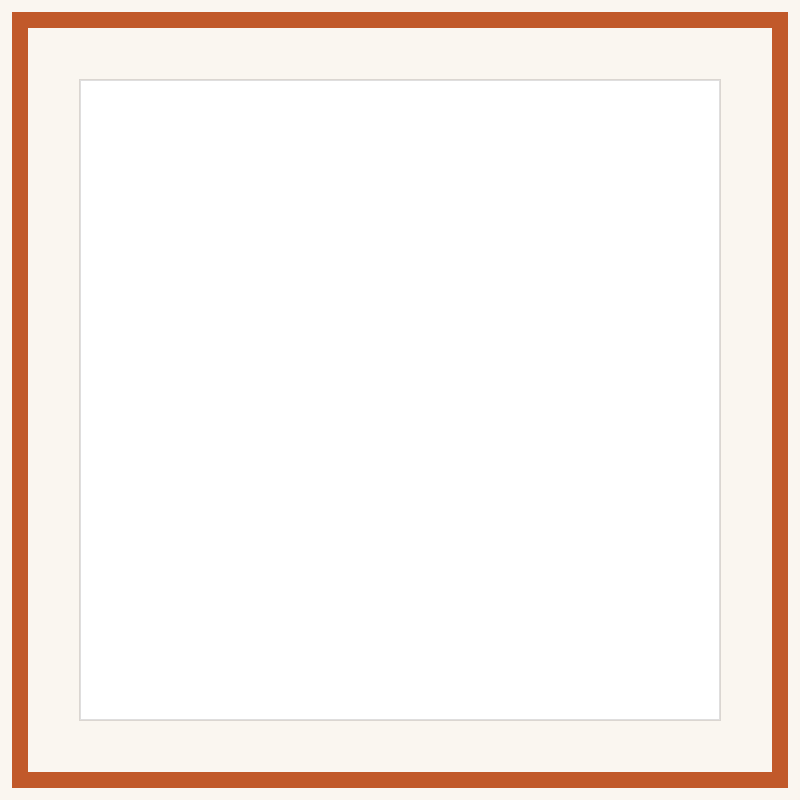
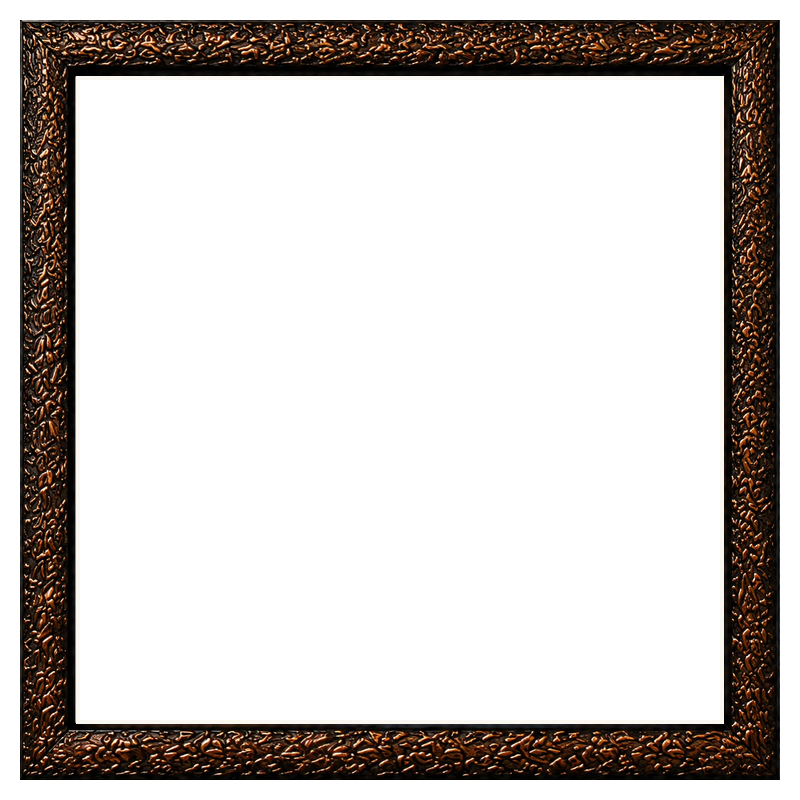
feat(preview): use the supplied bronze frame for every product preview
- Adds the frame as a transparent PNG (public/frames/mock-frame.png).
- Regenerates every product's mockup around it (corners kept, sides stretched
  to each product's shape); the photo openings are unchanged, so existing
  templates and crops still line up.
- The collage "In a room" view draws the same frame instead of a coloured
  moulding.

Changed region(s): [[0.0, 0.0, 1.0, 1.0]]

diff --git a/scripts/seed/src/generate-mockups.ts b/scripts/seed/src/generate-mockups.ts
@@ -1,6 +1,6 @@
 // scripts/seed/src/generate-mockups.ts
 import sharp from 'sharp';
-import { mkdirSync } from 'node:fs';
+import { mkdirSync, readFileSync } from 'node:fs';
 import { join, dirname } from 'node:path';
 import { fileURLToPath } from 'node:url';
 import { seedProducts, seedVariants, computePrintableRects } from './data';
@@ -9,15 +9,50 @@ import type { FrameTemplate } from '@bro-pics/shared';
 const __dirname = dirname(fileURLToPath(import.meta.url));
 const OUTPUT_DIR = join(__dirname, '..', '..', '..', 'apps', 'web', 'public', 'placeholders', 'mockups');
 const MOCKUP_SIZE = 800;
+const FRAME_PATH = join(__dirname, '..', '..', '..', 'apps', 'web', 'public', 'frames', 'mock-frame.png');
+/** Moulding width in the frame artwork (pixels, even on all four sides). */
+const FRAME_MOULDING_SRC_PX = 100;
+/** Moulding width on the 800 px mockup, and the cream mat between it and the photo openings (fractions of the mockup). */
+const MOULDING = 0.07;
+const MAT = 0.005;
 
 /**
- * Generates one flat placeholder mockup PNG per product: a plain frame
- * outline (terracotta border on cream background) with the printable
- * area(s) punched out as REAL alpha transparency, sized 800x800. Not
- * photoreal — just enough to prove the upload/position/DPI/preview
- * pipeline composites correctly. Real photography-team mockups replace
- * these files later without any code change (only the seed data's
- * mockupUrl values need updating).
+ * Draws the shop's one frame (public/frames/mock-frame.png) around a box:
+ * the four corners keep their mitres, the four sides are stretched to fit, so
+ * the same frame suits any product shape without distortion at the corners.
+ */
+async function frameAround(box: { x: number; y: number; width: number; height: number }): Promise<sharp.OverlayOptions[]> {
+  const art = sharp(readFileSync(FRAME_PATH));
+  const { width: sw, height: sh } = await art.metadata().then((m) => ({ width: m.width!, height: m.height! }));
+  const c = FRAME_MOULDING_SRC_PX;
+  const m = Math.round(MOULDING * MOCKUP_SIZE);
+  const ox = Math.round(box.x * MOCKUP_SIZE);
+  const oy = Math.round(box.y * MOCKUP_SIZE);
+  const ow = Math.round(box.width * MOCKUP_SIZE);
+  const oh = Math.round(box.height * MOCKUP_SIZE);
+  const piece = async (left: number, top: number, w: number, h: number, tw: number, th: number, x: number, y: number) => ({
+    input: await sharp(readFileSync(FRAME_PATH)).extract({ left, top, width: w, height: h }).resize(tw, th, { fit: 'fill' }).png().toBuffer(),
+    left: x,
+    top: y,
+  });
+  return Promise.all([
+    piece(0, 0, c, c, m, m, ox, oy),
+    piece(sw - c, 0, c, c, m, m, ox + ow - m, oy),
+    piece(0, sh - c, c, c, m, m, ox, oy + oh - m),
+    piece(sw - c, sh - c, c, c, m, m, ox + ow - m, oy + oh - m),
+    piece(c, 0, sw - 2 * c, c, ow - 2 * m, m, ox + m, oy),
+    piece(c, sh - c, sw - 2 * c, c, ow - 2 * m, m, ox + m, oy + oh - m),
+    piece(0, c, c, sh - 2 * c, m, oh - 2 * m, ox, oy + m),
+    piece(sw - c, c, c, sh - 2 * c, m, oh - 2 * m, ox + ow - m, oy + m),
+  ]);
+}
+
+/**
+ * Generates one mockup PNG per product: the shop's frame around the product's
+ * printable area(s), with a cream mat behind it and the printable area(s)
+ * punched out as REAL alpha transparency, sized 800x800. Every product uses
+ * the same frame art, so the editor, the room previews and the print file
+ * all show one consistent frame.
  *
  * Critically, the punched-out area(s) come from `computePrintableRects` —
  * the exact same function `seedFrameTemplates` uses to compute
@@ -29,11 +64,6 @@ async function generateMockups(): Promise<void> {
   mkdirSync(OUTPUT_DIR, { recursive: true });
 
   for (const product of seedProducts) {
-    if (product.slug === 'classic-wooden-frame') {
-      console.log(`Skipping placeholder mockup generation for ${product.slug} (using photorealistic asset)`);
-      continue;
-    }
-
     const variants = seedVariants.filter((v) => v.productId === product.id && v.isActive);
     if (variants.length === 0) {
       throw new Error(`Product ${product.slug} has no active variants — cannot generate a mockup for it.`);
@@ -69,21 +99,13 @@ async function generateMockups(): Promise<void> {
       })
       .join('\n            ');
 
-    const slotOutlines = rects
-      .map((r) => {
-        const x = r.x * MOCKUP_SIZE;
-        const y = r.y * MOCKUP_SIZE;
-        const w = r.width * MOCKUP_SIZE;
-        const h = r.height * MOCKUP_SIZE;
-        return `<rect x="${x}" y="${y}" width="${w}" height="${h}" fill="none" stroke="#2A2622" stroke-opacity="0.15" stroke-width="2"/>`;
-      })
-      .join('\n            ');
-
-    // The background rect is masked (white = opaque, black = the punched
-    // hole) so every printable-rect area ends up with real alpha 0 —
-    // the customer's uploaded photo, composited underneath in the editor,
-    // shows through. The border rect is drawn separately, unmasked, so the
-    // frame's outer edge stays fully opaque regardless of hole placement.
+    // The mat covers the whole frame opening except where the photos show through.
+    const left = Math.min(...rects.map((r) => r.x));
+    const top = Math.min(...rects.map((r) => r.y));
+    const right = Math.max(...rects.map((r) => r.x + r.width));
+    const bottom = Math.max(...rects.map((r) => r.y + r.height));
+    const outer = { x: left - MAT - MOULDING, y: top - MAT - MOULDING, width: right - left + 2 * (MAT + MOULDING), height: bottom - top + 2 * (MAT + MOULDING) };
+    const inner = { x: outer.x + MOULDING, y: outer.y + MOULDING, width: outer.width - 2 * MOULDING, height: outer.height - 2 * MOULDING };
     const svg = `
       <svg xmlns="http://www.w3.org/2000/svg" width="${MOCKUP_SIZE}" height="${MOCKUP_SIZE}">
         <defs>
@@ -92,13 +114,13 @@ async function generateMockups(): Promise<void> {
             ${holeRects}
           </mask>
         </defs>
-        <rect width="${MOCKUP_SIZE}" height="${MOCKUP_SIZE}" fill="#FAF6F0" mask="url(#printable-cutout)"/>
-        <rect x="20" y="20" width="${MOCKUP_SIZE - 40}" height="${MOCKUP_SIZE - 40}" fill="none" stroke="#C1592A" stroke-width="16"/>
-        ${slotOutlines}
+        <rect x="${inner.x * MOCKUP_SIZE}" y="${inner.y * MOCKUP_SIZE}" width="${inner.width * MOCKUP_SIZE}" height="${inner.height * MOCKUP_SIZE}" fill="#FAF6F0" mask="url(#printable-cutout)"/>
       </svg>
     `;
+    const mat = await sharp(Buffer.from(svg)).png().toBuffer();
+    const frame = await frameAround(outer);
     const outputPath = join(OUTPUT_DIR, `${product.slug}.png`);
-    await sharp(Buffer.from(svg)).png().toFile(outputPath);
+    await sharp(mat).composite(frame).png().toFile(outputPath);
     console.log(`Generated ${outputPath} (${rects.length} printable rect${rects.length === 1 ? '' : 's'})`);
   }
 }

diff --git a/apps/web/components/customizer/frame-moulding.ts b/apps/web/components/customizer/frame-moulding.ts
@@ -1,38 +1,16 @@
 'use client';
 
 /**
- * Puts the printed design into a simple moulding for the room preview, so it
- * reads as a framed picture on the wall rather than a loose poster. The colour
- * follows the frame finish the customer picked.
+ * Puts the printed design into the shop's one frame (public/frames/mock-frame.png)
+ * for the room preview, so a collage reads as a framed picture on the wall and
+ * looks the same as every other product.
  */
 
-/** Typical moulding face width of the frames sold, in inches. */
+export const FRAME_SRC = '/frames/mock-frame.png';
+/** Moulding width in the frame artwork (even on all four sides), in its own pixels. */
+export const FRAME_MOULDING_SRC_PX = 100;
+/** Moulding face width of the frames sold, in inches. */
 export const MOULDING_IN = 0.9;
-
-const FINISHES: Array<[RegExp, string]> = [
-  [/black|ebony|charcoal/i, '#1f1c19'],
-  [/white|ivory|cream/i, '#efebe3'],
-  [/walnut|brown|teak|mahogany|dark|espresso/i, '#5b3a24'],
-  [/oak|natural|wood|pine|maple|beech|honey/i, '#b98a57'],
-  [/gold|brass/i, '#b8963e'],
-  [/silver|grey|gray|steel|chrome/i, '#9a9ca1'],
-  [/red|maroon|burgundy/i, '#6e2420'],
-];
-
-export function mouldingColour(finish: string | undefined): string {
-  if (finish) for (const [pattern, colour] of FINISHES) if (pattern.test(finish)) return colour;
-  return '#2b2420';
-}
-
-function shade(hex: string, amount: number): string {
-  const n = parseInt(hex.slice(1), 16);
-  const ch = (shift: number) => {
-    const v = (n >> shift) & 255;
-    const t = amount >= 0 ? v + (255 - v) * amount : v * (1 + amount);
-    return Math.round(Math.min(255, Math.max(0, t)));
-  };
-  return `rgb(${ch(16)},${ch(8)},${ch(0)})`;
-}
 
 function loadImage(src: string): Promise<HTMLImageElement> {
   return new Promise((resolve, reject) => {
@@ -44,51 +22,49 @@ function loadImage(src: string): Promise<HTMLImageElement> {
 }
 
 /**
- * Draws `designUrl` inside a bevelled moulding. `printWidthIn` (the design's
- * real width) sets how thick the moulding looks; without it a typical ratio is used.
+ * Draws `designUrl` inside the frame. The frame's four corners keep their
+ * mitres and its sides are stretched to fit, so any print shape works.
+ * `printWidthIn` (the design's real width) sets how thick the moulding looks.
  */
-export async function frameDesign(designUrl: string, finish: string | undefined, printWidthIn?: number): Promise<string | null> {
+export async function frameDesign(designUrl: string, printWidthIn?: number): Promise<string | null> {
   try {
-    const img = await loadImage(designUrl);
-    const w = img.naturalWidth;
-    const h = img.naturalHeight;
-    const border = Math.round(printWidthIn && printWidthIn > 0 ? (w * MOULDING_IN) / printWidthIn : Math.max(w, h) * 0.06);
+    const [design, frame] = await Promise.all([loadImage(designUrl), loadImage(FRAME_SRC)]);
+    const w = design.naturalWidth;
+    const h = design.naturalHeight;
+    const m = Math.round(printWidthIn && printWidthIn > 0 ? (w * MOULDING_IN) / printWidthIn : Math.max(w, h) * 0.06);
     const canvas = document.createElement('canvas');
-    canvas.width = w + border * 2;
-    canvas.height = h + border * 2;
+    canvas.width = w + m * 2;
+    canvas.height = h + m * 2;
     const ctx = canvas.getContext('2d');
     if (!ctx) return null;
-    const base = mouldingColour(finish);
+    ctx.imageSmoothingQuality = 'high';
+    const c = FRAME_MOULDING_SRC_PX;
+    const sw = frame.naturalWidth;
+    const sh = frame.naturalHeight;
     const W = canvas.width;
     const H = canvas.height;
-    const side = (points: Array<[number, number]>, colour: string) => {
-      ctx.beginPath();
-      points.forEach(([x, y], i) => (i ? ctx.lineTo(x, y) : ctx.moveTo(x, y)));
-      ctx.closePath();
-      ctx.fillStyle = colour;
-      ctx.fill();
-    };
-    // Light from the upper left: the top face catches it, the bottom face is in shade.
-    side([[0, 0], [W, 0], [W - border, border], [border, border]], shade(base, 0.14));
-    side([[W, 0], [W, H], [W - border, H - border], [W - border, border]], shade(base, -0.12));
-    side([[W, H], [0, H], [border, H - border], [W - border, H - border]], shade(base, -0.24));
-    side([[0, H], [0, 0], [border, border], [border, H - border]], shade(base, 0.04));
-    // A fine highlight on the outer edge and a dark lip where the moulding meets the print.
-    ctx.strokeStyle = shade(base, 0.3);
-    ctx.lineWidth = Math.max(1, border * 0.04);
-    ctx.strokeRect(ctx.lineWidth / 2, ctx.lineWidth / 2, W - ctx.lineWidth, H - ctx.lineWidth);
-    ctx.drawImage(img, border, border, w, h);
-    const lip = Math.max(2, border * 0.12);
-    const grad = (x0: number, y0: number, x1: number, y1: number) => {
+    ctx.drawImage(design, m, m, w, h);
+    // Sides first, corners on top.
+    ctx.drawImage(frame, c, 0, sw - 2 * c, c, m, 0, W - 2 * m, m);
+    ctx.drawImage(frame, c, sh - c, sw - 2 * c, c, m, H - m, W - 2 * m, m);
+    ctx.drawImage(frame, 0, c, c, sh - 2 * c, 0, m, m, H - 2 * m);
+    ctx.drawImage(frame, sw - c, c, c, sh - 2 * c, W - m, m, m, H - 2 * m);
+    ctx.drawImage(frame, 0, 0, c, c, 0, 0, m, m);
+    ctx.drawImage(frame, sw - c, 0, c, c, W - m, 0, m, m);
+    ctx.drawImage(frame, 0, sh - c, c, c, 0, H - m, m, m);
+    ctx.drawImage(frame, sw - c, sh - c, c, c, W - m, H - m, m, m);
+    // The frame casts a soft lip onto the print.
+    const lip = Math.max(2, m * 0.12);
+    const shade = (x0: number, y0: number, x1: number, y1: number) => {
       const g = ctx.createLinearGradient(x0, y0, x1, y1);
       g.addColorStop(0, 'rgba(20,12,4,0.38)');
       g.addColorStop(1, 'rgba(20,12,4,0)');
       return g;
     };
-    ctx.fillStyle = grad(0, border, 0, border + lip);
-    ctx.fillRect(border, border, w, lip);
-    ctx.fillStyle = grad(border, 0, border + lip, 0);
-    ctx.fillRect(border, border, lip, h);
+    ctx.fillStyle = shade(0, m, 0, m + lip);
+    ctx.fillRect(m, m, w, lip);
+    ctx.fillStyle = shade(m, 0, m + lip, 0);
+    ctx.fillRect(m, m, lip, h);
     return canvas.toDataURL('image/jpeg', 0.9);
   } catch {
     return null;

diff --git a/apps/web/components/customizer/CustomizerPreview.tsx b/apps/web/components/customizer/CustomizerPreview.tsx
@@ -54,7 +54,7 @@ export function CustomizerPreview({ customizer, variant, onRequestPhoto }: Custo
     const timer = setTimeout(async () => {
       const design = customizer.exportDesign(1400, true);
       if (!design) return; // a photo is still loading; this runs again once it has
-      const framed = await frameDesign(design, variant.frameColour, printWidthIn);
+      const framed = await frameDesign(design, printWidthIn);
       if (alive) setRoomImage(framed ?? design);
     }, 250);
     return () => {
@@ -62,7 +62,7 @@ export function CustomizerPreview({ customizer, variant, onRequestPhoto }: Custo
       clearTimeout(timer);
     };
     // eslint-disable-next-line react-hooks/exhaustive-deps
-  }, [view, state, customizer.render.version, variant.frameColour, printWidthIn, photoCount]);
+  }, [view, state, customizer.render.version, printWidthIn, photoCount]);
 
   const activeSlot = template.photoSlots.find((s) => s.id === activeSlotId) ?? null;
   const activePhoto = activeSlotId ? state.slots[activeSlotId] : undefined;
